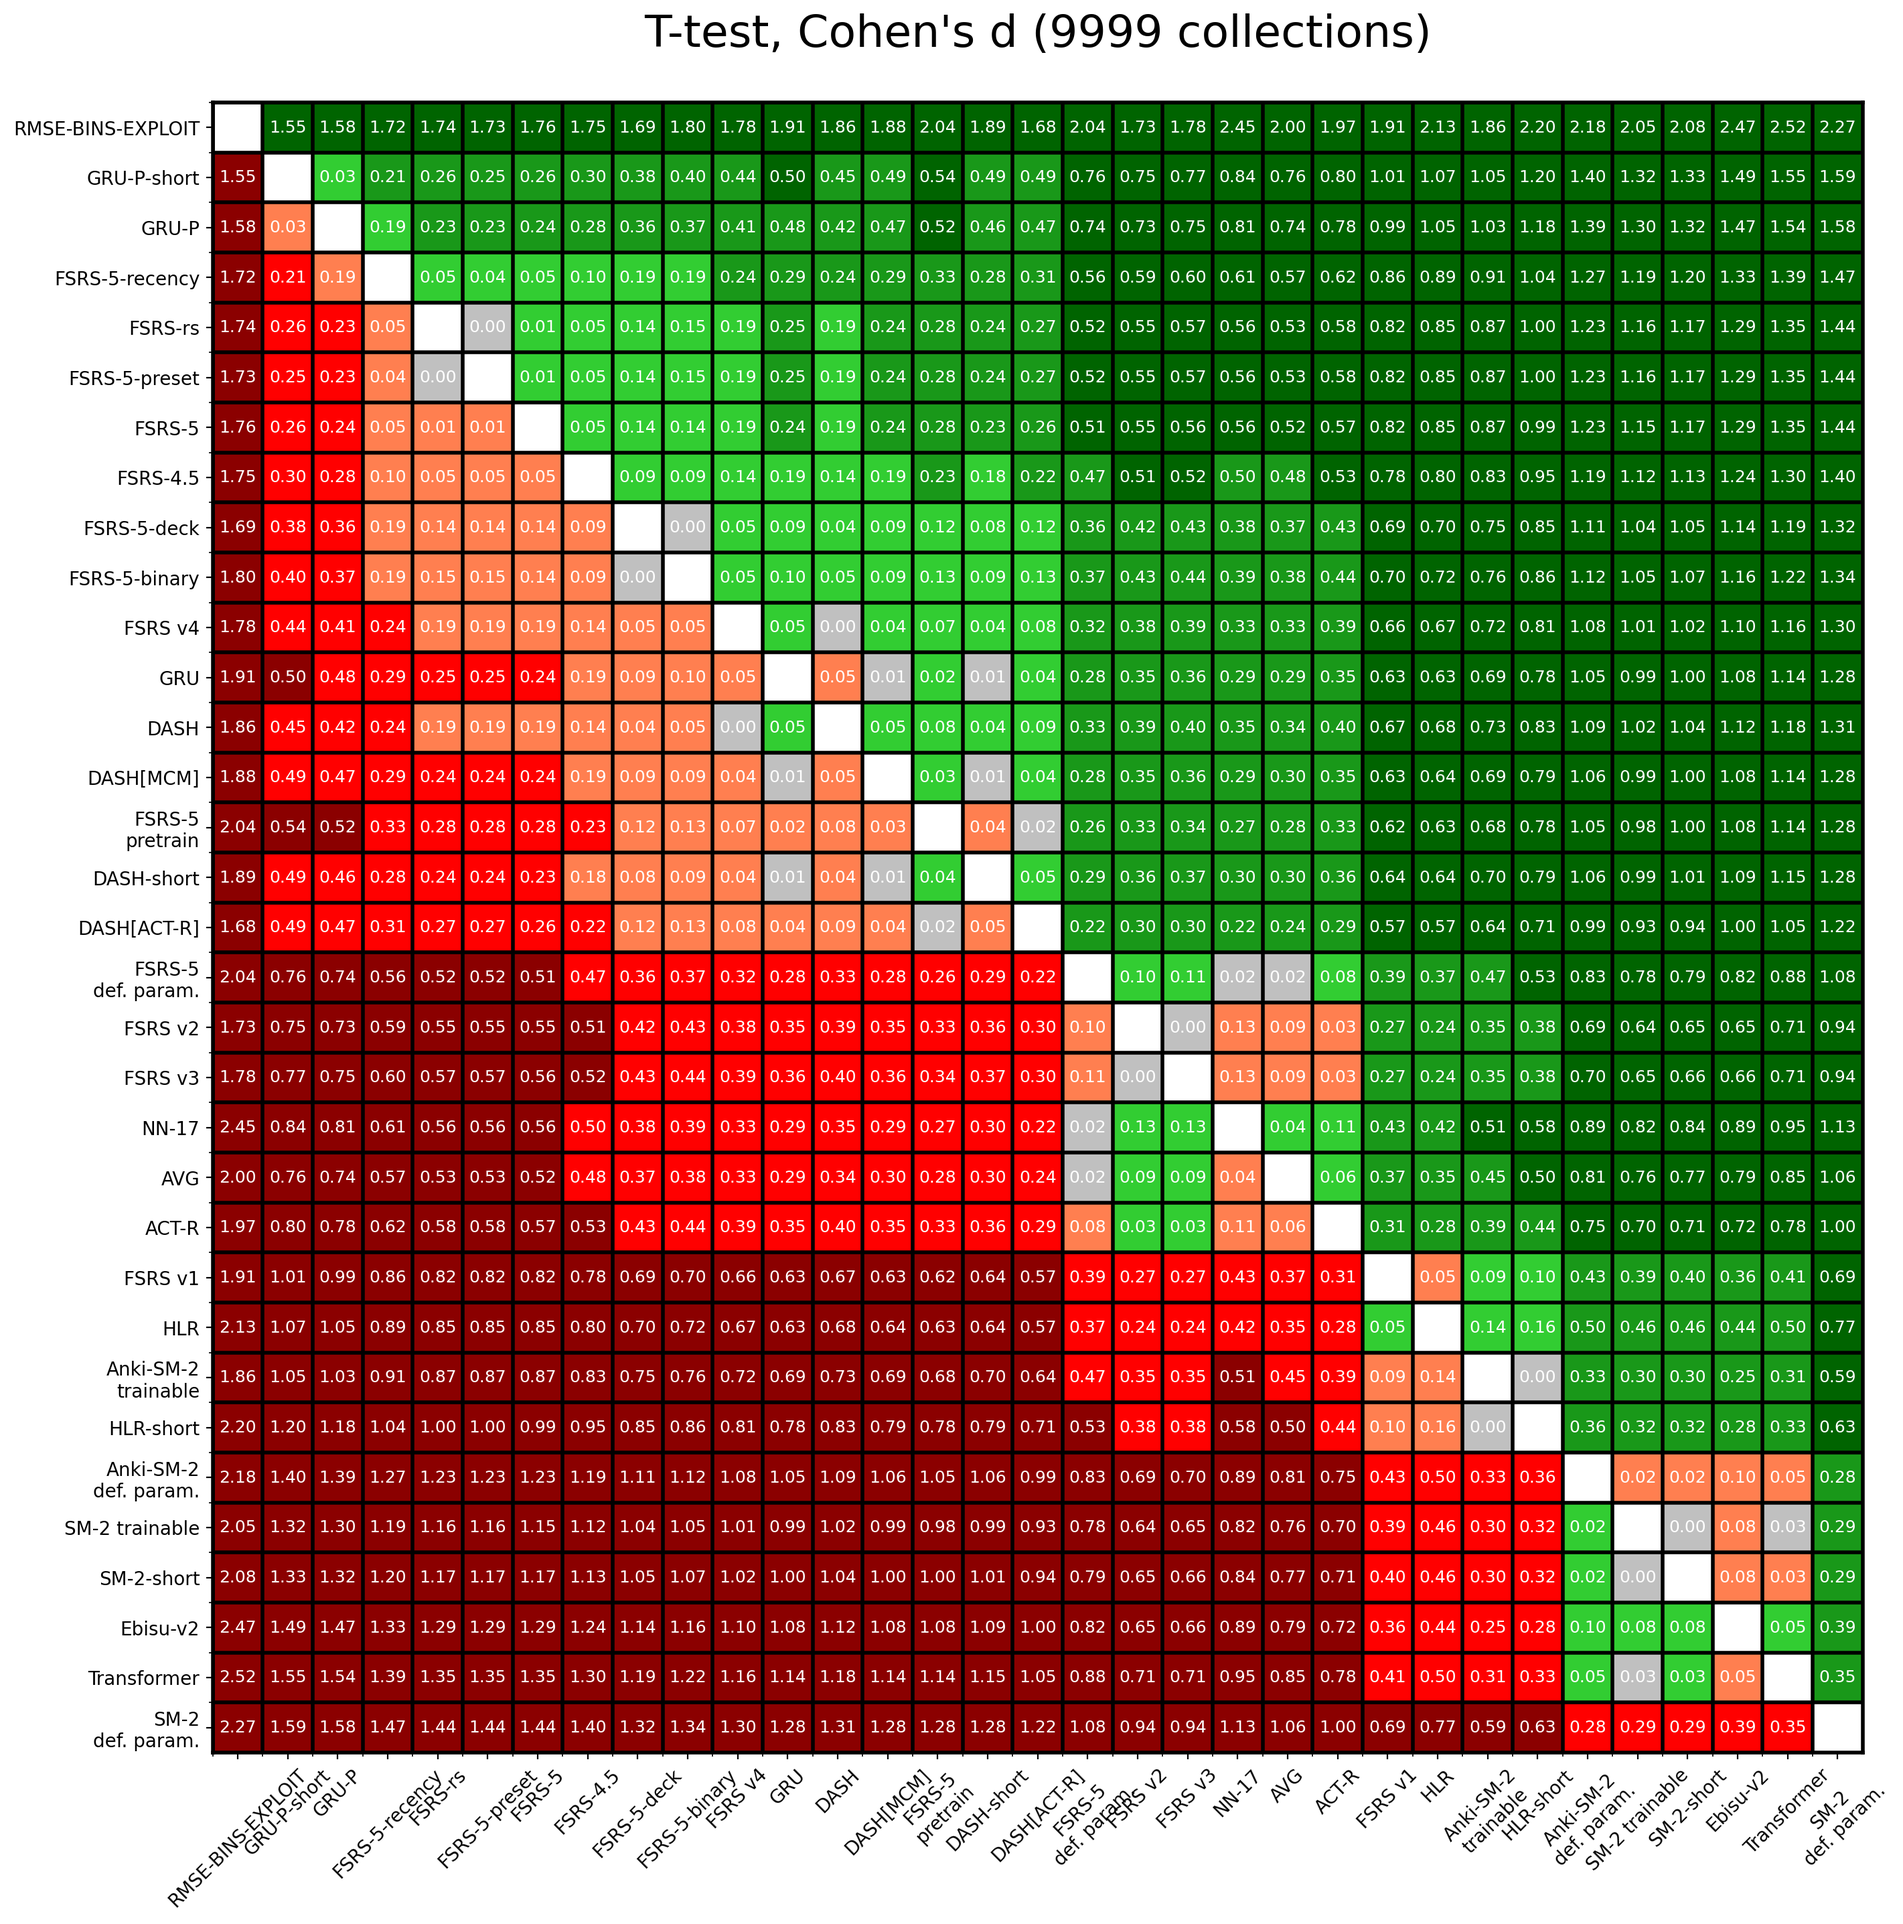
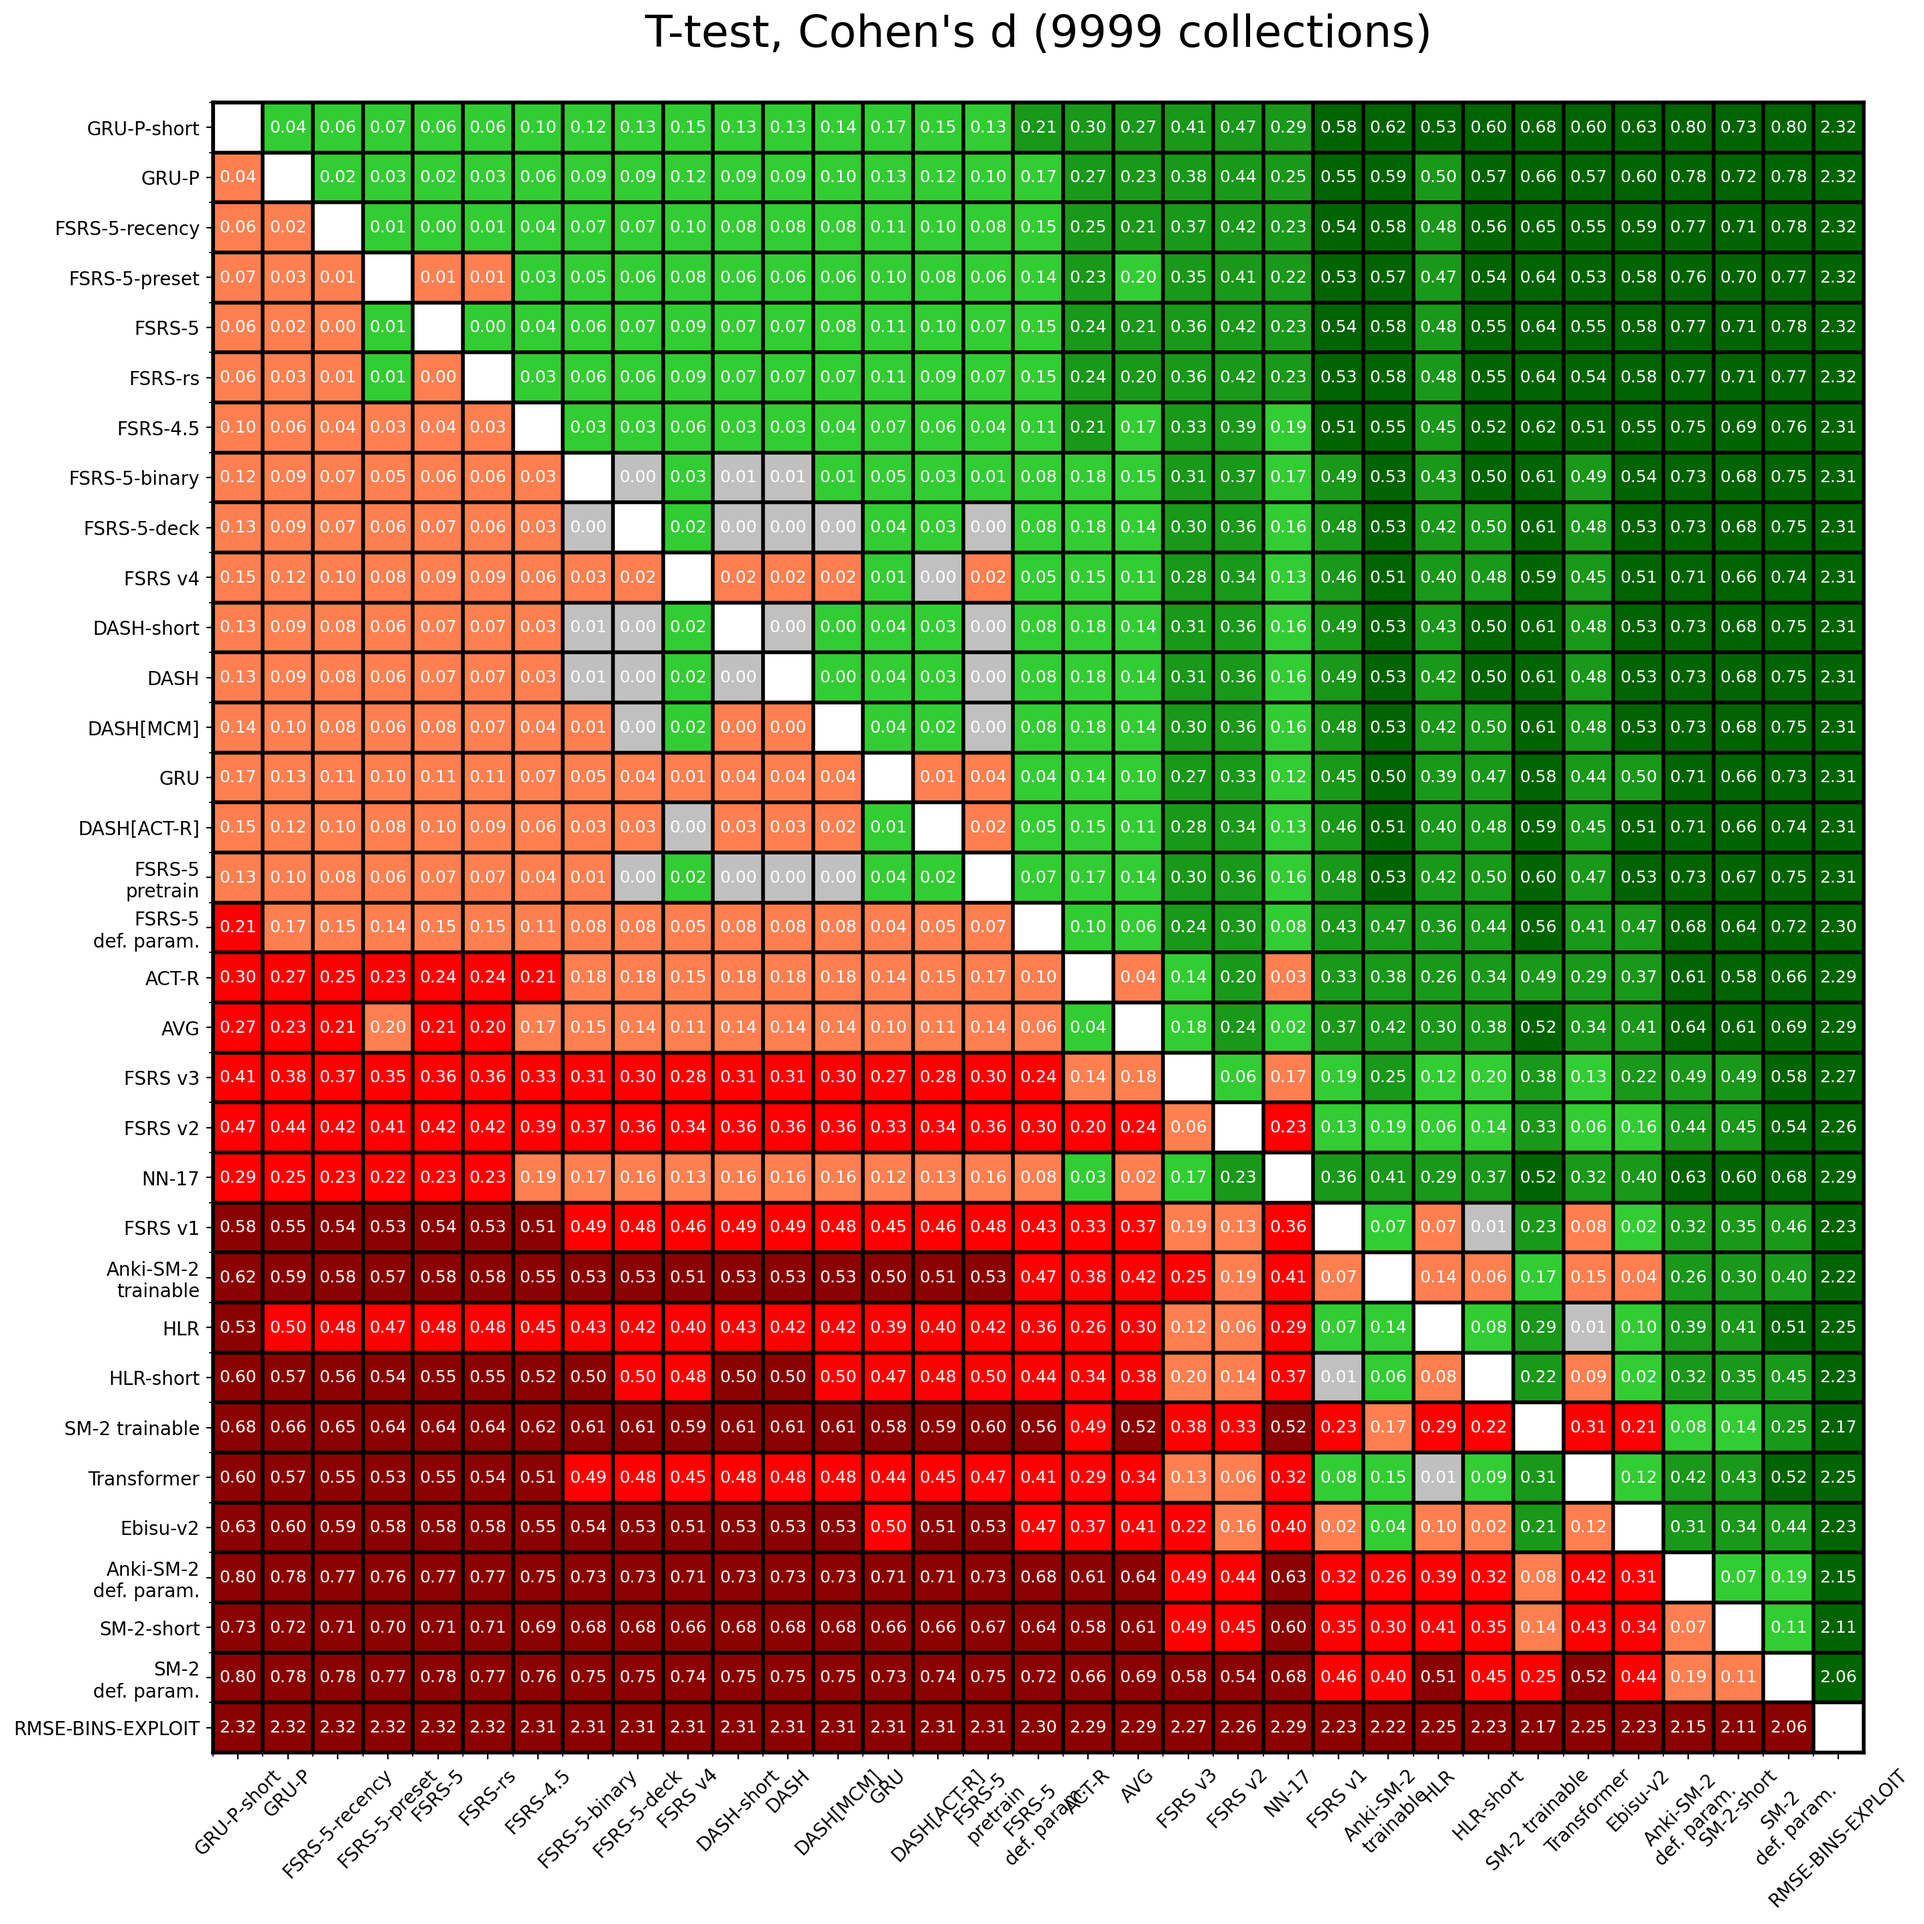
Order on log loss instead of rmse

diff --git a/superiority.py b/superiority.py
@@ -17,35 +17,36 @@ if __name__ == "__main__":
         "GRU-P-short",
         "GRU-P",
         "FSRS-5-recency",
-        "FSRS-rs",
         "FSRS-5-preset",
         "FSRS-5",
+        "FSRS-rs",
         "FSRS-4.5",
-        "FSRS-5-deck",
         "FSRS-5-binary",
+        "FSRS-5-deck",
         "FSRSv4",
-        "GRU",
+        "DASH-short",
         "DASH",
         "DASH[MCM]",
-        "FSRS-5-pretrain",
-        "DASH-short",
+        "GRU",
         "DASH[ACT-R]",
+        "FSRS-5-pretrain",
         "FSRS-5-dry-run",
-        "FSRSv2",
-        "FSRSv3",
-        "NN-17",
-        "AVG",
         "ACT-R",
+        "AVG",
+        "FSRSv3",
+        "FSRSv2",
+        "NN-17",
         "FSRSv1",
-        "HLR",
         "Anki",
+        "HLR",
         "HLR-short",
-        "Anki-dry-run",
         "SM2-trainable",
-        "SM2-short",
-        "Ebisu-v2",
         "Transformer",
+        "Ebisu-v2",
+        "Anki-dry-run",
+        "SM2-short",
         "SM2",
+        "RMSE-BINS-EXPLOIT",
     ]
     csv_name = f"{len(models)} models.csv"
 
@@ -53,7 +54,7 @@ if __name__ == "__main__":
     sizes = []
     for model in models:
         print(f"Model: {model}")
-        dictionary_RMSE = {}
+        dictionary_logloss = {}
         result_file = pathlib.Path(f"./result/{model}.jsonl")
         if not result_file.exists():
             continue
@@ -61,18 +62,16 @@ if __name__ == "__main__":
             data = [json.loads(x) for x in f.readlines()]
 
         for result in data:
-            RMSE = result["metrics"]["RMSE(bins)"]
+            logloss = result["metrics"]["LogLoss"]
             user = result["user"]
-            dictionary_RMSE.update({user: RMSE})
+            dictionary_logloss.update({user: logloss})
             if model == models[0]:
                 sizes.append(result["size"])
 
-        sorted_dictionary_RMSE = dict(sorted(dictionary_RMSE.items()))
-        RMSE_list = list(sorted_dictionary_RMSE.values())
-        # user_list = list(sorted_dictionary_RMSE.keys())
-        # assert user_list == sorted(user_list)
+        sorted_dictionary_LogLoss = dict(sorted(dictionary_logloss.items()))
+        LogLoss_list = list(sorted_dictionary_LogLoss.values())
 
-        series = pd.Series(RMSE_list, name=f"{model}, RMSE (bins)")
+        series = pd.Series(LogLoss_list, name=f"{model}, LogLoss")
         df = pd.concat([df, series], axis=1)
 
     df = pd.concat([df, pd.Series(sizes, name=f"Sizes")], axis=1)
@@ -91,8 +90,8 @@ if __name__ == "__main__":
             elif percentages[i, j] > 0:  # we already calculated this one
                 pass
             else:
-                df1 = df[f"{models[i]}, RMSE (bins)"]
-                df2 = df[f"{models[j]}, RMSE (bins)"]
+                df1 = df[f"{models[i]}, LogLoss"]
+                df2 = df[f"{models[j]}, LogLoss"]
                 greater = 0
                 lower = 0
                 # there is probably a better way to do this using Pandas

diff --git a/significance_table.py b/significance_table.py
@@ -69,35 +69,36 @@ if __name__ == "__main__":
         "GRU-P-short",
         "GRU-P",
         "FSRS-5-recency",
-        "FSRS-rs",
         "FSRS-5-preset",
         "FSRS-5",
+        "FSRS-rs",
         "FSRS-4.5",
-        "FSRS-5-deck",
         "FSRS-5-binary",
+        "FSRS-5-deck",
         "FSRSv4",
-        "GRU",
+        "DASH-short",
         "DASH",
         "DASH[MCM]",
-        "FSRS-5-pretrain",
-        "DASH-short",
+        "GRU",
         "DASH[ACT-R]",
+        "FSRS-5-pretrain",
         "FSRS-5-dry-run",
-        "FSRSv2",
-        "FSRSv3",
-        "NN-17",
-        "AVG",
         "ACT-R",
+        "AVG",
+        "FSRSv3",
+        "FSRSv2",
+        "NN-17",
         "FSRSv1",
-        "HLR",
         "Anki",
+        "HLR",
         "HLR-short",
-        "Anki-dry-run",
         "SM2-trainable",
-        "SM2-short",
-        "Ebisu-v2",
         "Transformer",
+        "Ebisu-v2",
+        "Anki-dry-run",
+        "SM2-short",
         "SM2",
+        "RMSE-BINS-EXPLOIT",
     ]
     csv_name = f"{len(models)} models.csv"
     print(f"Number of tests={(len(models)-1) ** 2}")
@@ -144,8 +145,8 @@ if __name__ == "__main__":
                 ttest[i, j] = np.nan
                 color_ttest[i, j] = np.nan
             else:
-                df1 = df[f"{models[i]}, RMSE (bins)"]
-                df2 = df[f"{models[j]}, RMSE (bins)"]
+                df1 = df[f"{models[i]}, LogLoss"]
+                df2 = df[f"{models[j]}, LogLoss"]
                 result = wilcoxon_effect_size(df1[:n_collections], df2[:n_collections])
                 p_value = result["p_value"]
                 wilcox[i, j] = result["r"]

diff --git a/README.md b/README.md
@@ -74,7 +74,6 @@ The following tables present the means and the 99% confidence intervals. The bes
 
 | Model | Parameters | LogLoss | RMSE (bins) | AUC |
 | --- | --- | --- | --- | --- |
-| **RMSE-BINS-EXPLOIT** | 0 | 4.5±0.13 | **0.0062±0.00022** | 0.638±0.0040 |
 | **GRU-P-short** | 297 | **0.320±0.0080** | 0.042±0.0013 | **0.710±0.0047** |
 | GRU-P | 297 | 0.325±0.0081 | 0.043±0.0013 | 0.699±0.0046 |
 | FSRS-5 recency | 19 | 0.326±0.0080 | 0.049±0.0014 | 0.704±0.0042 |
@@ -85,34 +84,34 @@ The following tables present the means and the 99% confidence intervals. The bes
 | FSRS-5 binary | 15 | 0.334±0.0083 | 0.056±0.0016 | 0.679±0.0047 |
 | FSRS-5 deck | 19 | 0.336±0.0085 | 0.056±0.0018 | 0.692±0.0044 |
 | FSRS v4 | 17 | 0.338±0.0086 | 0.058±0.0017 | 0.689±0.0043 |
-| DASH | 9 | 0.340±0.0086 | 0.063±0.0017 | 0.639±0.0046 |
-| GRU | 39 | 0.343±0.0088 | 0.063±0.0017 | 0.673±0.0039 |
-| DASH[MCM] | 9 | 0.340±0.0085 | 0.064±0.0018 | 0.640±0.0051 |
 | DASH-short | 9 | 0.339±0.0084 | 0.066±0.0019 | 0.636±0.0050 |
+| DASH | 9 | 0.340±0.0086 | 0.063±0.0017 | 0.639±0.0046 |
+| DASH[MCM] | 9 | 0.340±0.0085 | 0.064±0.0018 | 0.640±0.0051 |
+| GRU | 39 | 0.343±0.0088 | 0.063±0.0017 | 0.673±0.0039 |
 | DASH[ACT-R] | 5 | 0.343±0.0087 | 0.067±0.0019 | 0.629±0.0049 |
-| FSRS v2 | 14 | 0.38±0.010 | 0.069±0.0021 | 0.667±0.0048 |
 | FSRS-5 pretrain | 4 | 0.344±0.0086 | 0.071±0.0020 | 0.690±0.0040 |
-| FSRS v3 | 13 | 0.371±0.0099 | 0.073±0.0021 | 0.667±0.0047 |
 | FSRS-5 default param. | 0 | 0.353±0.0087 | 0.081±0.0023 | 0.687±0.0039 |
-| NN-17 | 39 | 0.38±0.027 | 0.081±0.0038 | 0.611±0.0043 |
 | ACT-R | 5 | 0.362±0.0089 | 0.086±0.0024 | 0.534±0.0054 |
-| FSRS v1 | 7 | 0.40±0.011 | 0.086±0.0024 | 0.633±0.0046 |
 | AVG | 0 | 0.363±0.0090 | 0.088±0.0025 | 0.508±0.0046 |
+| FSRS v3 | 13 | 0.371±0.0099 | 0.073±0.0021 | 0.667±0.0047 |
+| FSRS v2 | 14 | 0.38±0.010 | 0.069±0.0021 | 0.667±0.0048 |
+| NN-17 | 39 | 0.38±0.027 | 0.081±0.0038 | 0.611±0.0043 |
+| FSRS v1 | 7 | 0.40±0.011 | 0.086±0.0024 | 0.633±0.0046 |
 | Anki-SM-2 trainable | 7 | 0.41±0.011 | 0.094±0.0030 | 0.616±0.0057 |
 | HLR | 3 | 0.41±0.012 | 0.105±0.0030 | 0.633±0.0050 |
 | HLR-short | 3 | 0.44±0.013 | 0.116±0.0036 | 0.615±0.0062 |
 | SM-2 trainable | 6 | 0.44±0.012 | 0.119±0.0033 | 0.599±0.0050 |
+| Transformer | 127 | 0.45±0.012 | 0.166±0.0049 | 0.519±0.0065 |
+| Ebisu-v2 | 0 | 0.46±0.012 | 0.158±0.0038 | 0.594±0.0050 |
 | Anki-SM-2 | 0 | 0.49±0.015 | 0.128±0.0037 | 0.597±0.0055 |
 | SM-2-short | 0 | 0.51±0.015 | 0.128±0.0038 | 0.593±0.0064 |
 | SM-2 | 0 | 0.55±0.017 | 0.148±0.0041 | 0.600±0.0051 |
-| Ebisu-v2 | 0 | 0.46±0.012 | 0.158±0.0038 | 0.594±0.0050 |
-| Transformer | 127 | 0.45±0.012 | 0.166±0.0049 | 0.519±0.0065 |
+| **RMSE-BINS-EXPLOIT** | 0 | 4.5±0.13 | **0.0062±0.00022** | 0.638±0.0040 |
 
 ### Unweighted
 
 | Model | Parameters | Log Loss | RMSE (bins) | AUC |
 | --- | --- | --- | --- | --- |
-| **RMSE-BINS-EXPLOIT** | 0 | 4.61±0.067 | **0.0135±0.00028** | 0.655±0.0021 |
 | **GRU-P-short** | 297 | **0.346±0.0042** | 0.062±0.0011 | 0.699±0.0026 |
 | GRU-P | 297 | 0.352±0.0042 | 0.063±0.0011 | 0.687±0.0025 |
 | **FSRS-5 recency** | 19 | 0.355±0.0043 | 0.072±0.0012 | **0.701±0.0023** |
@@ -123,28 +122,29 @@ The following tables present the means and the 99% confidence intervals. The bes
 | FSRS-5 binary | 15 | 0.367±0.0045 | 0.081±0.0014 | 0.671±0.0025 |
 | FSRS-5 deck | 19 | 0.368±0.0047 | 0.081±0.0014 | 0.694±0.0023 |
 | DASH | 9 | 0.368±0.0045 | 0.084±0.0013 | 0.631±0.0027 |
-| FSRS v4 | 17 | 0.373±0.0048 | 0.084±0.0014 | 0.685±0.0023 |
 | DASH-short | 9 | 0.368±0.0045 | 0.086±0.0014 | 0.622±0.0029 |
 | DASH[MCM] | 9 | 0.369±0.0044 | 0.086±0.0014 | 0.634±0.0026 |
-| GRU | 39 | 0.375±0.0047 | 0.086±0.0014 | 0.668±0.0023 |
 | FSRS-5 pretrain | 4 | 0.369±0.0046 | 0.088±0.0013 | 0.695±0.0022 |
+| FSRS v4 | 17 | 0.373±0.0048 | 0.084±0.0014 | 0.685±0.0023 |
 | DASH[ACT-R] | 5 | 0.373±0.0047 | 0.089±0.0016 | 0.624±0.0027 |
-| NN-17 | 39 | 0.398±0.0049 | 0.101±0.0013 | 0.624±0.0023 |
+| GRU | 39 | 0.375±0.0047 | 0.086±0.0014 | 0.668±0.0023 |
 | FSRS-5 default param. | 0 | 0.382±0.0047 | 0.102±0.0015 | 0.693±0.0022 |
 | AVG | 0 | 0.394±0.0050 | 0.103±0.0016 | 0.500±0.0026 |
+| NN-17 | 39 | 0.398±0.0049 | 0.101±0.0013 | 0.624±0.0023 |
 | ACT-R | 5 | 0.403±0.0055 | 0.107±0.0017 | 0.522±0.0024 |
 | FSRS v3 | 13 | 0.436±0.0067 | 0.110±0.0020 | 0.661±0.0024 |
 | FSRS v2 | 14 | 0.453±0.0072 | 0.110±0.0020 | 0.651±0.0023 |
+| Transformer | 127 | 0.468±0.0059 | 0.167±0.0022 | 0.531±0.0030 |
 | HLR | 3 | 0.469±0.0073 | 0.128±0.0019 | 0.637±0.0026 |
 | FSRS v1 | 7 | 0.491±0.0080 | 0.132±0.0022 | 0.630±0.0025 |
 | HLR-short | 3 | 0.493±0.0079 | 0.140±0.0021 | 0.611±0.0029 |
-| Anki-SM-2 trainable | 7 | 0.513±0.0089 | 0.140±0.0024 | 0.618±0.0023 |
 | Ebisu-v2 | 0 | 0.499±0.0078 | 0.163±0.0021 | 0.605±0.0026 |
-| Transformer | 127 | 0.468±0.0059 | 0.167±0.0022 | 0.531±0.0030 |
+| Anki-SM-2 trainable | 7 | 0.513±0.0089 | 0.140±0.0024 | 0.618±0.0023 |
 | SM-2 trainable | 6 | 0.58±0.012 | 0.170±0.0028 | 0.597±0.0025 |
-| SM-2-short | 0 | 0.65±0.015 | 0.170±0.0028 | 0.590±0.0027 |
 | Anki-SM-2 | 0 | 0.62±0.011 | 0.172±0.0026 | 0.613±0.0022 |
+| SM-2-short | 0 | 0.65±0.015 | 0.170±0.0028 | 0.590±0.0027 |
 | SM-2 | 0 | 0.72±0.017 | 0.203±0.0030 | 0.603±0.0025 |
+| **RMSE-BINS-EXPLOIT** | 0 | 4.61±0.067 | **0.0135±0.00028** | 0.655±0.0021 |
 
 Averages weighted by the number of reviews are more representative of "best case" performance when plenty of data is available. Since almost all algorithms perform better when there's a lot of data to learn from, weighting by n(reviews) biases the average towards lower values.
 
